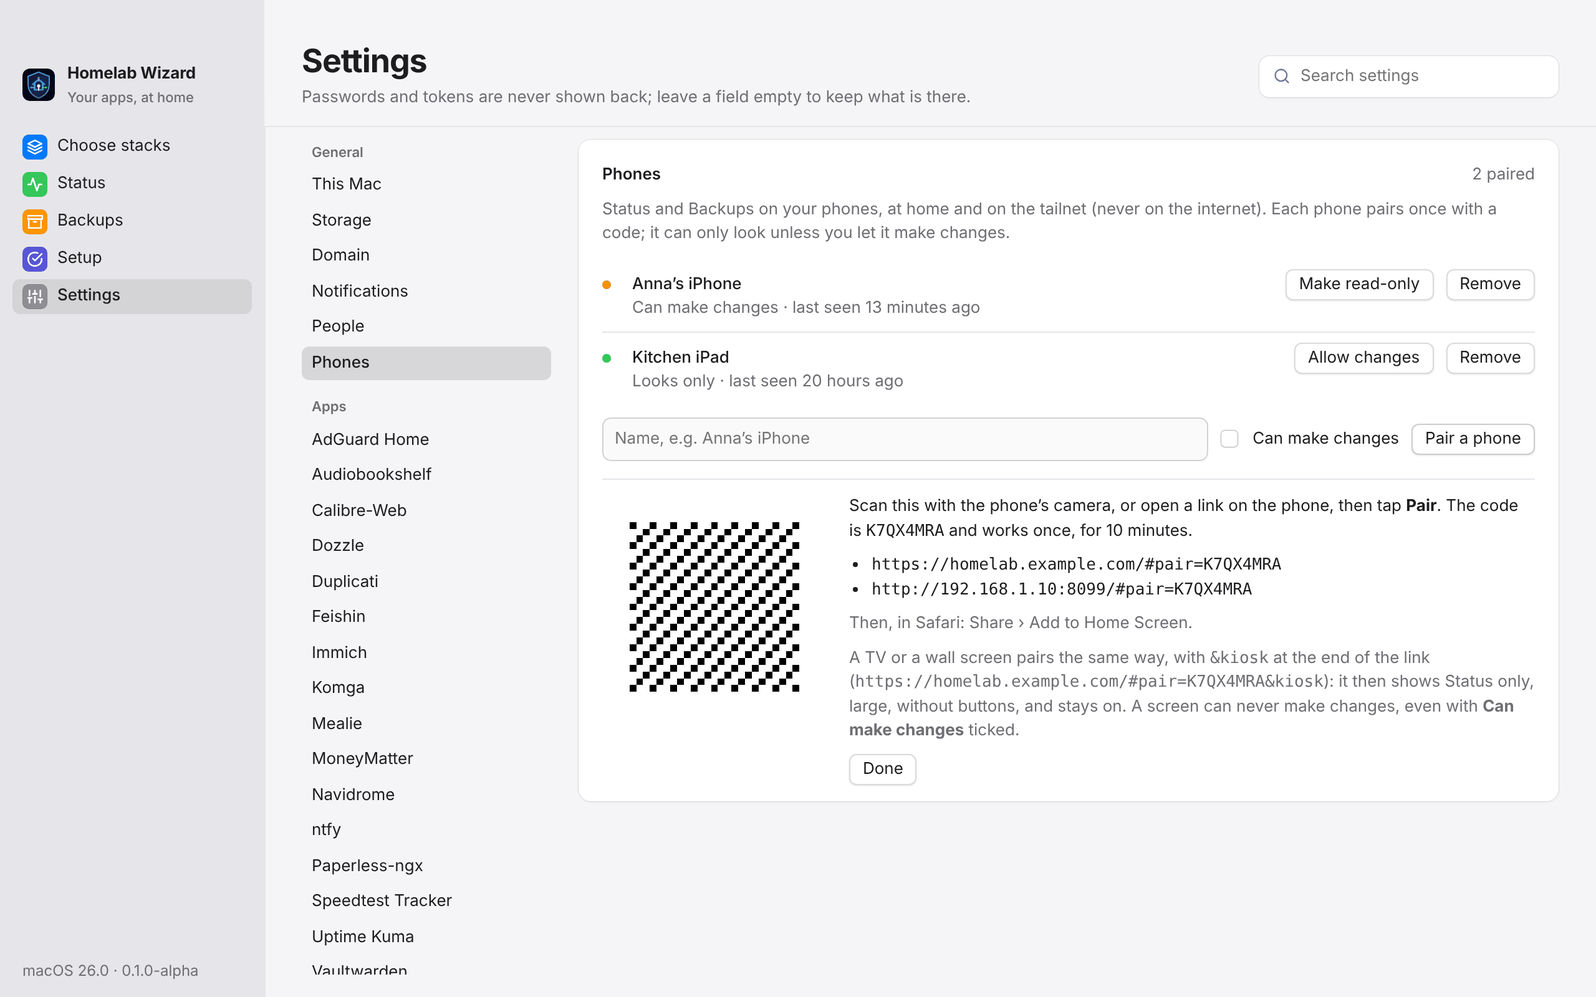
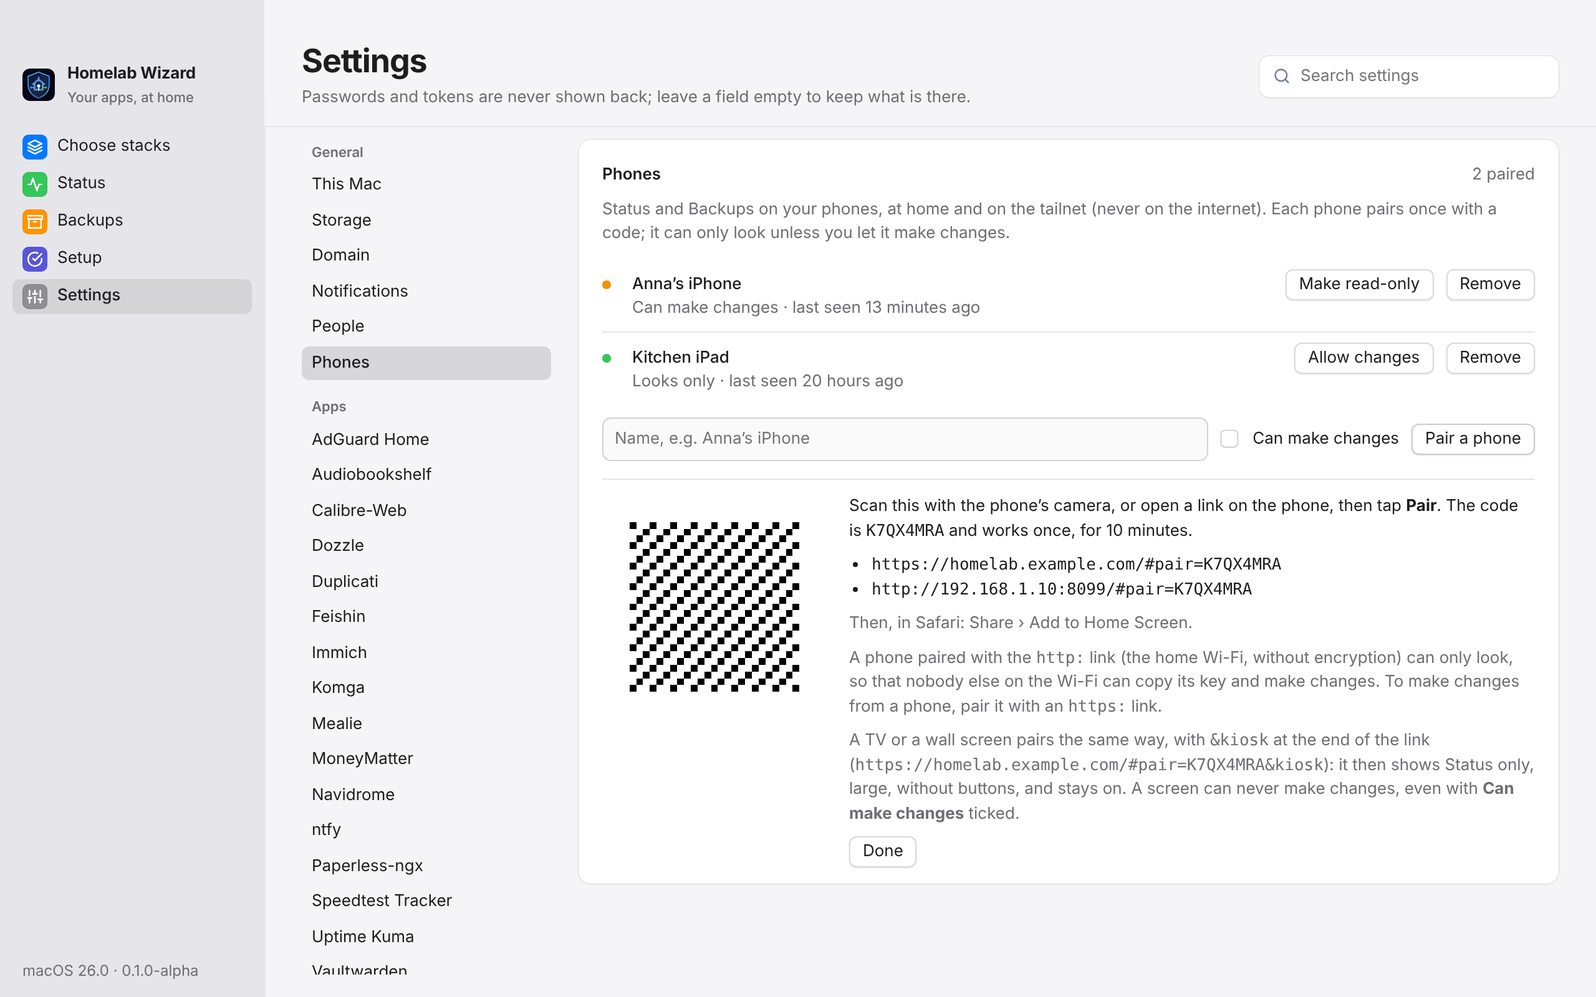
A phone paired over the home Wi-Fi without encryption can only look (#131)

Changed region(s): [[0.5312, 0.6562, 0.9688, 0.875]]

diff --git a/web/dist/app.js b/web/dist/app.js
@@ -949,6 +949,13 @@
         /* @__PURE__ */ u3("ul", { children: links.map((l3) => /* @__PURE__ */ u3("li", { children: /* @__PURE__ */ u3("code", { children: l3 }) }, l3)) }),
         p3.off && /* @__PURE__ */ u3("p", { class: "bad", children: "The phone companion is off (PHONE_COMPANION=false): turn it on below and save first." }),
         /* @__PURE__ */ u3("p", { class: "muted", children: "Then, in Safari: Share › Add to Home Screen." }),
+        links.some((l3) => l3.startsWith("http:")) && /* @__PURE__ */ u3("p", { class: "muted", children: [
+          "A phone paired with the ",
+          /* @__PURE__ */ u3("code", { children: "http:" }),
+          " link (the home Wi-Fi, without encryption) can only look, so that nobody else on the Wi-Fi can copy its key and make changes. To make changes from a phone, pair it with an ",
+          /* @__PURE__ */ u3("code", { children: "https:" }),
+          " link."
+        ] }),
         !!links.length && /* @__PURE__ */ u3("p", { class: "muted", children: [
           "A TV or a wall screen pairs the same way, with ",
           /* @__PURE__ */ u3("code", { children: "&kiosk" }),
@@ -983,12 +990,12 @@
         /* @__PURE__ */ u3("div", { class: "grow", children: [
           /* @__PURE__ */ u3("strong", { children: p3.name }),
           /* @__PURE__ */ u3("div", { class: "muted", children: [
-            p3.canChange ? "Can make changes" : "Looks only",
+            p3.canChange ? "Can make changes" : p3.unencrypted ? "Looks only (paired over the home Wi-Fi, without encryption)" : "Looks only",
             " · last seen ",
             ago(p3.lastSeen)
           ] })
         ] }),
-        /* @__PURE__ */ u3("button", { class: "small", title: p3.canChange ? "Only look from now on" : "Let it start, stop, restart, update, and back up", onClick: () => on.setCanChange(p3.id, !p3.canChange), children: p3.canChange ? "Make read-only" : "Allow changes" }),
+        !p3.unencrypted && /* @__PURE__ */ u3("button", { class: "small", title: p3.canChange ? "Only look from now on" : "Let it start, stop, restart, update, and back up", onClick: () => on.setCanChange(p3.id, !p3.canChange), children: p3.canChange ? "Make read-only" : "Allow changes" }),
         /* @__PURE__ */ u3("button", { class: "small", title: "Unpair it: it stops working at once", onClick: () => on.remove(p3.id), children: "Remove" })
       ] }, p3.id)) }),
       /* @__PURE__ */ u3("div", { class: "inputrow pairrow", children: [

diff --git a/web/src/settings/Phones.tsx b/web/src/settings/Phones.tsx
@@ -25,6 +25,7 @@ function Pairing({ p, done }: { p: app.PhonePairing; done: () => void }) {
           <ul>{links.map((l) => <li key={l}><code>{l}</code></li>)}</ul>
           {p.off && <p class="bad">The phone companion is off (PHONE_COMPANION=false): turn it on below and save first.</p>}
           <p class="muted">Then, in Safari: Share › Add to Home Screen.</p>
+          {links.some((l) => l.startsWith('http:')) && <p class="muted">A phone paired with the <code>http:</code> link (the home Wi-Fi, without encryption) can only look, so that nobody else on the Wi-Fi can copy its key and make changes. To make changes from a phone, pair it with an <code>https:</code> link.</p>}
           {!!links.length && <p class="muted">A TV or a wall screen pairs the same way, with <code>&amp;kiosk</code> at the end of the link (<code>{links[0] + '&kiosk'}</code>): it then shows Status only, large, without buttons, and stays on. A screen can never make changes, even with <strong>Can make changes</strong> ticked.</p>}
           <button class="small" onClick={done}>Done</button>
         </div>
@@ -47,8 +48,8 @@ export function Phones({ phones, on }: { phones: companion.Phone[]; on: PhonesAc
           {phones.map((p) => (
             <li key={p.id}>
               <span class={'dot ' + (p.canChange ? 'warn' : 'ok')} />
-              <div class="grow"><strong>{p.name}</strong><div class="muted">{p.canChange ? 'Can make changes' : 'Looks only'} · last seen {ago(p.lastSeen)}</div></div>
-              <button class="small" title={p.canChange ? 'Only look from now on' : 'Let it start, stop, restart, update, and back up'} onClick={() => on.setCanChange(p.id, !p.canChange)}>{p.canChange ? 'Make read-only' : 'Allow changes'}</button>
+              <div class="grow"><strong>{p.name}</strong><div class="muted">{p.canChange ? 'Can make changes' : p.unencrypted ? 'Looks only (paired over the home Wi-Fi, without encryption)' : 'Looks only'} · last seen {ago(p.lastSeen)}</div></div>
+              {!p.unencrypted && <button class="small" title={p.canChange ? 'Only look from now on' : 'Let it start, stop, restart, update, and back up'} onClick={() => on.setCanChange(p.id, !p.canChange)}>{p.canChange ? 'Make read-only' : 'Allow changes'}</button>}
               <button class="small" title="Unpair it: it stops working at once" onClick={() => on.remove(p.id)}>Remove</button>
             </li>
           ))}

diff --git a/web/types/backend.d.ts b/web/types/backend.d.ts
@@ -238,6 +238,7 @@ declare namespace companion {
     id: string;
     name: string;
     canChange: boolean;
+    unencrypted?: boolean;
     paired: string;
     lastSeen: string;
   }

diff --git a/internal/companion/devices.go b/internal/companion/devices.go
@@ -31,28 +31,32 @@ const PairFor = 10 * time.Minute
 
 // Device is one paired phone. Only a hash of its token is kept.
 type Device struct {
-	ID        string    `json:"id"`
-	Name      string    `json:"name"`
-	TokenHash string    `json:"tokenHash"`
-	CanChange bool      `json:"canChange"`
-	Paired    time.Time `json:"paired"`
-	LastSeen  time.Time `json:"lastSeen"`
+	ID        string `json:"id"`
+	Name      string `json:"name"`
+	TokenHash string `json:"tokenHash"`
+	CanChange bool   `json:"canChange"`
+	// Unencrypted: paired over plain HTTP on the home network, so its
+	// token crosses the Wi-Fi readable; it may only look, for good.
+	Unencrypted bool      `json:"unencrypted,omitempty"`
+	Paired      time.Time `json:"paired"`
+	LastSeen    time.Time `json:"lastSeen"`
 }
 
 // Phone is a paired phone as the screens show it (no token hash).
 type Phone struct {
-	ID        string    `json:"id"`
-	Name      string    `json:"name"`
-	CanChange bool      `json:"canChange"`
-	Paired    time.Time `json:"paired"`
-	LastSeen  time.Time `json:"lastSeen"`
+	ID          string    `json:"id"`
+	Name        string    `json:"name"`
+	CanChange   bool      `json:"canChange"`
+	Unencrypted bool      `json:"unencrypted,omitempty"`
+	Paired      time.Time `json:"paired"`
+	LastSeen    time.Time `json:"lastSeen"`
 }
 
 // Phones lists the paired phones for the screens.
 func (s *Store) Phones() []Phone {
 	out := []Phone{}
 	for _, d := range s.Devices() {
-		out = append(out, Phone{ID: d.ID, Name: d.Name, CanChange: d.CanChange, Paired: d.Paired, LastSeen: d.LastSeen})
+		out = append(out, Phone{ID: d.ID, Name: d.Name, CanChange: d.CanChange, Unencrypted: d.Unencrypted, Paired: d.Paired, LastSeen: d.LastSeen})
 	}
 	return out
 }
@@ -247,8 +251,13 @@ func (s *Store) Remove(idOrName string) (Device, error) {
 	return d, s.save(st)
 }
 
+// ErrUnencrypted is a change allowed to a device paired without
+// encryption.
+var ErrUnencrypted = errors.New("was paired over the home Wi-Fi without encryption, so it can only look: remove it, then pair it again with the Tailscale (https) link")
+
 // SetCanChange lets a device start, stop, and restart apps and back up, or
-// makes it read-only again.
+// makes it read-only again. A device paired without encryption stays
+// read-only.
 func (s *Store) SetCanChange(idOrName string, on bool) (Device, error) {
 	s.mu.Lock()
 	defer s.mu.Unlock()
@@ -257,7 +266,25 @@ func (s *Store) SetCanChange(idOrName string, on bool) (Device, error) {
 	if i < 0 {
 		return Device{}, fmt.Errorf("no paired phone %q (homelab phone list)", idOrName)
 	}
+	if on && st.Devices[i].Unencrypted {
+		return st.Devices[i], fmt.Errorf("%s %w", st.Devices[i].Name, ErrUnencrypted)
+	}
 	st.Devices[i].CanChange = on
+	return st.Devices[i], s.save(st)
+}
+
+// MarkUnencrypted notes that a device was paired without encryption and
+// makes it read-only for good.
+func (s *Store) MarkUnencrypted(id string) (Device, error) {
+	s.mu.Lock()
+	defer s.mu.Unlock()
+	st := s.load()
+	i := find(st, id)
+	if i < 0 {
+		return Device{}, fmt.Errorf("no paired phone %q (homelab phone list)", id)
+	}
+	st.Devices[i].Unencrypted = true
+	st.Devices[i].CanChange = false
 	return st.Devices[i], s.save(st)
 }
 

diff --git a/internal/companion/companion_test.go b/internal/companion/companion_test.go
@@ -4,6 +4,7 @@ import (
 	"bufio"
 	"context"
 	"encoding/json"
+	"errors"
 	"net/http"
 	"net/http/httptest"
 	"path/filepath"
@@ -257,4 +258,56 @@ func TestEventsForPairedPhones(t *testing.T) {
 		}
 	}
 	t.Fatal("no change streamed")
+}
+
+// A phone paired over plain HTTP from the home network may only look, for
+// good; one paired through https may be allowed changes.
+func TestPairingOverTheHomeWiFiIsReadOnly(t *testing.T) {
+	store := NewStore(filepath.Join(t.TempDir(), "phones.json"))
+	s := &Server{Store: store, Methods: map[string]Method{
+		"AppAction": {Change: true, Call: func(context.Context, []json.RawMessage) (any, []string, error) { return nil, nil, nil }},
+	}}
+	h := s.Handler()
+	do := func(path, body, token string, hdr map[string]string) (int, map[string]any) {
+		t.Helper()
+		r := httptest.NewRequest(http.MethodPost, path, strings.NewReader(body))
+		r.RemoteAddr = "192.168.1.20:52000"
+		if token != "" {
+			r.Header.Set("Authorization", "Bearer "+token)
+		}
+		for k, v := range hdr {
+			r.Header.Set(k, v)
+		}
+		w := httptest.NewRecorder()
+		h.ServeHTTP(w, r)
+		var out map[string]any
+		_ = json.NewDecoder(w.Body).Decode(&out)
+		return w.Code, out
+	}
+
+	code, _ := store.NewPairing("Anna's iPhone", true)
+	if status, out := do("/api/pair", `{"code":"`+code+`"}`, "", nil); status != 200 || out["device"].(map[string]any)["canChange"] != false {
+		t.Fatalf("plain pair: %d %v", status, out)
+	}
+	phone := store.Phones()[0]
+	if !phone.Unencrypted || phone.CanChange {
+		t.Fatalf("plain pair kept: %+v", phone)
+	}
+	if _, err := store.SetCanChange(phone.ID, true); !errors.Is(err, ErrUnencrypted) {
+		t.Errorf("allowed changes to a phone paired without encryption: %v", err)
+	}
+
+	code, _ = store.NewPairing("Ben's iPhone", true)
+	status, out := do("/api/pair", `{"code":"`+code+`"}`, "", map[string]string{"X-Forwarded-Proto": "https"})
+	if status != 200 || out["device"].(map[string]any)["canChange"] != true {
+		t.Fatalf("https pair: %d %v", status, out)
+	}
+	token := out["token"].(string)
+	// Its token sent over plain HTTP from the home network makes no change.
+	if status, _ := do("/api/call/AppAction", `["vikunja","restart"]`, token, nil); status != 403 {
+		t.Errorf("a change over plain HTTP: %d", status)
+	}
+	if status, _ := do("/api/call/AppAction", `["vikunja","restart"]`, token, map[string]string{"X-Forwarded-Proto": "https"}); status != 200 {
+		t.Errorf("a change over https: %d", status)
+	}
 }

diff --git a/internal/companion/server.go b/internal/companion/server.go
@@ -102,6 +102,29 @@ func Local(r *http.Request) bool {
 	return ip.IsLoopback() || ip.IsPrivate() || ip.IsLinkLocalUnicast() || tailnet.Contains(ip) || thisNetwork.Contains(ip)
 }
 
+// Encrypted reports whether a request reached the companion in a way
+// nobody on the home Wi-Fi can read: from this machine (Tailscale Serve's
+// https), over the tailnet (WireGuard), from OrbStack's containers (the
+// proxy), or through the proxy's https, which it says in X-Forwarded-Proto. Plain
+// HTTP from the home network is not. The header could be sent by anyone,
+// but only someone holding a pairing code or a token gains by it, and the
+// point is that a token is never sent where others can read it.
+func Encrypted(r *http.Request) bool {
+	if r.TLS != nil || r.Header.Get("X-Forwarded-Proto") == "https" {
+		return true
+	}
+	host, _, err := net.SplitHostPort(r.RemoteAddr)
+	if err != nil {
+		host = r.RemoteAddr
+	}
+	ip, err := netip.ParseAddr(host)
+	if err != nil {
+		return false
+	}
+	ip = ip.Unmap()
+	return ip.IsLoopback() || tailnet.Contains(ip) || thisNetwork.Contains(ip)
+}
+
 func writeJSON(w http.ResponseWriter, code int, v any) {
 	w.Header().Set("Content-Type", "application/json")
 	w.Header().Set("Cache-Control", "no-store")
@@ -167,6 +190,12 @@ func (s *Server) pair(w http.ResponseWriter, r *http.Request) {
 		// show them again, so the screen itself may not make changes.
 		d, err = s.Store.SetCanChange(d.ID, false)
 	}
+	if err == nil && !Encrypted(r) {
+		// Its token will cross the home Wi-Fi readable with every request
+		// (a page keeps it per address, so this phone keeps using this
+		// one): someone on the Wi-Fi could copy it, so it may only look.
+		d, err = s.Store.MarkUnencrypted(d.ID)
+	}
 	if err != nil {
 		fail(w, http.StatusInternalServerError, err.Error())
 		return
@@ -208,6 +237,10 @@ func (s *Server) call(w http.ResponseWriter, r *http.Request) {
 	m, ok := s.Methods[name]
 	if !ok {
 		fail(w, http.StatusNotFound, "not on the phone: use Homelab Wizard on the computer")
+		return
+	}
+	if m.Change && d.CanChange && !Encrypted(r) {
+		fail(w, http.StatusForbidden, "changes from a phone need the Tailscale (https) link; over the home Wi-Fi it can only look")
 		return
 	}
 	if m.Change && !d.CanChange {

diff --git a/docs/Security.md b/docs/Security.md
@@ -83,7 +83,7 @@ Everything reachable from outside this machine, what guards it, and what is left
 | ntfy (public, for phone alerts) | Anyone on the internet | Deny-all by default; publishing and reading need tokens (`NTFY_PUBLISH_TOKEN`, `NTFY_READ_TOKEN`, the phone's login); only published once the token exists | A leaked phone login reads the alerts (which name apps, never secrets): rotate it with `homelab notify setup` |
 | The proxy and DNS on the LAN (80, 443, 53) | Every device on the home network | TLS with the wildcard certificate; app ports bound to `127.0.0.1` (`BIND_IP`); the same per-app sign-in | CrowdSec never bans private addresses, so a compromised device at home is not stopped by it; admin apps (the proxy, AdGuard, Duplicati) are reachable from the LAN behind their own passwords |
 | Home mode: Tailscale Serve | Devices signed in to your tailnet | Tailnet only: Funnel is never turned on, so nothing is on the internet; WireGuard end to end | Every device in the tailnet reaches every app, admin apps included. Share the tailnet only with the household, set `TAILNET_ADMIN_APPS=false` to keep the admin apps on this machine only, or limit the `homelab` machine with Tailscale's access controls |
-| Phone companion (`homelab serve`, 8099) | Home network and tailnet | Refuses public addresses and anything that came through Cloudflare (`Cf-Ray`/`Cf-Connecting-Ip`); never in the tunnel; one-time pairing codes (8 characters, 10 minutes, 10 wrong codes lock pairing for 10 minutes); device tokens stored as SHA-256 hashes and compared in constant time; read-only unless allowed; strict CSP and no framing | Anyone on the home Wi-Fi can try to pair, at the rate limit; a phone that is lost needs **Remove** in Settings › Phones |
+| Phone companion (`homelab serve`, 8099) | Home network and tailnet | Refuses public addresses and anything that came through Cloudflare (`Cf-Ray`/`Cf-Connecting-Ip`); never in the tunnel; one-time pairing codes (8 characters, 10 minutes, 10 wrong codes lock pairing for 10 minutes); device tokens stored as SHA-256 hashes and compared in constant time; read-only unless allowed, and allowed only to a phone paired over an encrypted link (M5); strict CSP and no framing | Anyone on the home Wi-Fi can try to pair, at the rate limit; a phone that is lost needs **Remove** in Settings › Phones |
 | The desktop app | This machine only | Opens no port; secrets are copied to the clipboard (cleared after 90 seconds) and never sent to the page | Anything running as you on this Mac can read `.env`, as with any local secret store |
 | Self-update (the latest build or a `v*` release) | Whoever controls the GitHub repository | HTTPS from GitHub; the download is checked against GitHub's SHA-256 of it before it is opened; the old app is kept until the new one is in place; build provenance attestations for tagged releases | Builds are unsigned until the Apple Developer ID is in place, so a compromised repository or GitHub account could ship a bad build. Signing and notarisation (1.0) close this; until then, keep 2FA on the GitHub account |
 | Release workflow | Pushes to `main` and tags | `contents: read` by default; write only in the nightly and release jobs; no secrets in pull-request runs | The nightly job replaces the `nightly` release on every app change to `main`: review what merges |
@@ -126,7 +126,7 @@ Every way into the homelab's own code: what can reach it, what guards it, and wh
 
 | Way in | Who can reach it | What guards it |
 |---|---|---|
-| Phone companion (`homelab serve`, port 8099) | Anything on the same network as the computer (home Wi-Fi, or a café's), and the tailnet | Private addresses only, nothing through Cloudflare; one-time 8-character codes, 10 wrong codes lock pairing for 10 minutes; device tokens stored hashed, compared in constant time; a fixed list of methods, read-only unless allowed; strict CSP, no framing; tokens are sent as a header, never a cookie, so another website cannot act for a phone |
+| Phone companion (`homelab serve`, port 8099) | Anything on the same network as the computer (home Wi-Fi, or a café's), and the tailnet | Private addresses only, nothing through Cloudflare; one-time 8-character codes, 10 wrong codes lock pairing for 10 minutes; device tokens stored hashed, compared in constant time; a fixed list of methods, read-only unless allowed, and allowed only to a phone paired over an encrypted link (M5); strict CSP, no framing; tokens are sent as a header, never a cookie, so another website cannot act for a phone |
 | Kiosk mode (`&kiosk` on the pairing link) | Anyone standing at the TV or wall screen | A screen paired in kiosk mode is read-only on the computer's side (M4), so showing the buttons again changes nothing |
 | The engine's local socket | Programs running as you on this computer | Owner-only folder and socket; read-only (`/v1/status`, `/v1/events`) |
 | The desktop app's page | Only the app's own frontend, bundled into the app | Opens no port; outside text (release notes, logs, the model's answer) is shown as text, never as HTML; the only raw HTML is the app's own icons |
@@ -144,7 +144,7 @@ Every way into the homelab's own code: what can reach it, what guards it, and wh
 | M2 | Medium | **Unpacking a move file follows links**: a crafted move file can put a link to a folder outside the homelab, then write through it (into `~/Library/LaunchAgents`, say, which runs at login). Needs you to move in a file someone else made | **Fixed:** unpacked through `os.Root`, which cannot leave the folder, with a test of such a file |
 | M3 | Medium | **Any paired device reads raw app logs**, a read-only phone or a kiosk TV included, and logs can hold passwords and tokens | **Fixed:** a log sent to a phone has `.env`'s secrets and anything shaped like a password or token taken out, as in a diagnostics report |
 | M4 | Medium | **Kiosk mode is only a look**: a TV paired with *Can make changes* keeps that power, and `#kiosk=off` brings the buttons back | **Fixed:** a screen paired in kiosk mode is made read-only on the computer, whatever its code allowed |
-| M5 | Medium | **The phone companion uses plain HTTP on the home network**: the pairing code and the device's token cross the Wi-Fi unencrypted, so someone on the same Wi-Fi who knows its password could copy a token. The tailnet link is encrypted (WireGuard) | To decide: allow changes only over the tailnet or from this computer, and keep the home-network link read-only |
+| M5 | Medium | **The phone companion uses plain HTTP on the home network**: the pairing code and the device's token cross the Wi-Fi unencrypted, so someone on the same Wi-Fi who knows its password could copy a token. The tailnet link is encrypted (WireGuard) | **Fixed:** a phone paired over plain HTTP from the home network may only look, for good; changes need an encrypted link (Tailscale, the domain's https, or this computer), and a change sent over plain HTTP is refused |
 | M6 | Medium | **The two containers that control Docker update themselves** from `:latest` every night (Watchtower, `docker-socket-proxy`). Whoever controls those images controls the computer | To decide: pin them to a version and update them by hand, like the proxy and the databases |
 | L1 | Low | `docker-socket-proxy` lets dashboards read each container's details, its settings from `.env` included, and Dozzle (optional) has no sign-in on the home network and tailnet | Give Dozzle a sign-in, or keep it to this computer |
 | L2 | Low | `HOMELAB_DOMAIN` reaches an administrator prompt unchecked: an elevated PowerShell script on Windows, a file path under `/etc/resolver` on the Mac. Only someone who can already edit `.env` could abuse it | Accept only a valid domain name |

diff --git a/docs/Testing.md b/docs/Testing.md
@@ -97,6 +97,7 @@ cd ~/Homelab
 | Status › an app's update icon (Uptime Kuma) | A panel lists the releases newer than the version it runs, with the start of each one's notes and **Full notes**, then **Update** and **Cancel**. `./homelab updates notes uptime-kuma` prints the same |
 | Status › **Update apps** | The list of apps with what each update brings (*2.0.1 → 2.0.2*); after **Update them**, a bar with *Updating … · 2 of 5* above the log |
 | With Ollama and a model (`ollama pull llama3.2`): Status › an app's log icon › **Explain this log** | A few lines in plain words on whether something is wrong, the line that shows it, and what to try, naming the model. Without Ollama the button is not there. `./homelab logs memos --explain` prints the same |
+| Settings › Phones › **Pair a phone** with **Can make changes** ticked, then open the `http://` link on a phone on the home Wi-Fi and pair | Settings › Phones shows it as *Looks only (paired over the home Wi-Fi, without encryption)* with no **Allow changes**; the same with the `https://` (Tailscale) link shows *Can make changes*, and **Restart** on the phone works |
 | Settings › Phones › **Pair a phone**, then the link with `&kiosk` on an iPad or a TV's browser | After pairing it shows Status alone, larger, with the time in the corner and no buttons; stopping an app on the computer shows there within seconds, and the screen does not go dark |
 | Status › **What's using power**, with an app busy | Each busy app's share of a core, and after half a minute a small line of its last minutes beside it |
 | `./homelab --json status \| head -1` | The line starts with `{"schema":1,` |

diff --git a/CHANGELOG.md b/CHANGELOG.md
@@ -6,6 +6,7 @@ All notable changes to this homelab are recorded here. The format follows [Keep 
 
 ### Added
 
+- A phone paired over the home Wi-Fi's plain `http://` link can only look, for good: its key would cross the Wi-Fi unencrypted, where someone else on it could copy it and make changes. To start, stop, update, or back up from a phone, pair it with an `https://` link (Tailscale, or the domain); a change sent over plain HTTP is refused. Settings › Phones says which phones are which and why (threat review M5).
 - A TV or wall screen paired in kiosk mode can never make changes: kiosk mode hid the buttons, but a screen paired with **Can make changes** kept that power, and anyone at it could bring the buttons back with `#kiosk=off`. The computer now makes such a screen read-only when it pairs, and Settings › Phones says so (threat review M4).
 - An app's log on a phone (or a kiosk TV) no longer shows passwords or tokens: before it leaves the computer, `.env`'s secrets and anything shaped like a password, token, or key are replaced, as in a diagnostics report (threat review M3). Logs on the computer itself are unchanged.
 - `homelab move in` cannot be tricked into writing outside the homelab folder: a crafted move file could hold a link to another folder, then a file inside the link (into `~/Library/LaunchAgents`, say, which runs at login). Files are now unpacked through Go's `os.Root`, which refuses to leave the folder (threat review M2). Building the CLI needs Go 1.25 or newer; Go fetches the right version by itself.
